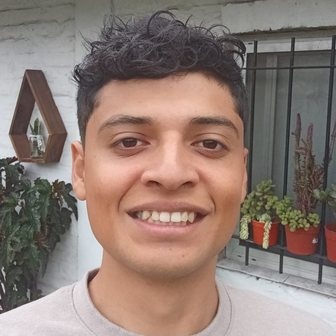
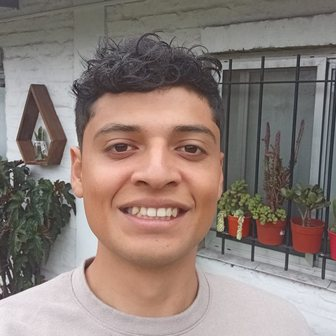
Add files via upload

diff --git a/index.html b/index.html
@@ -32,7 +32,7 @@
   "address": { "@type": "PostalAddress", "addressLocality": "General Pacheco, Tigre", "addressRegion": "Buenos Aires", "addressCountry": "AR" },
   "alumniOf": "UTN Facultad Regional General Pacheco",
   "email": "mailto:leonardotello13@gmail.com",
-  "sameAs": ["https://github.com/FaridTello", "https://www.linkedin.com/in/leonardo-farid-tello-moscoso"]
+  "sameAs": ["https://github.com/FaridTello", "https://www.linkedin.com/in/leonardo-farid-tello-moscoso", "https://www.hackerrank.com/profile/leonardotello13"]
 }
 </script>
 <script>
@@ -402,6 +402,8 @@
             <svg viewBox="0 0 24 24" fill="currentColor"><path d="M20.45 20.45h-3.56v-5.57c0-1.33-.03-3.04-1.85-3.04-1.86 0-2.14 1.45-2.14 2.94v5.67H9.34V9h3.42v1.56h.05c.48-.9 1.64-1.85 3.37-1.85 3.6 0 4.27 2.37 4.27 5.46v6.28ZM5.34 7.43a2.06 2.06 0 1 1 0-4.13 2.06 2.06 0 0 1 0 4.13ZM7.12 20.45H3.56V9h3.56v11.45ZM22.22 0H1.77C.79 0 0 .77 0 1.73v20.54C0 23.23.79 24 1.77 24h20.45c.98 0 1.78-.77 1.78-1.73V1.73C24 .77 23.2 0 22.22 0Z"/></svg></a>
           <a class="icon-link" href="https://leetcode.com/u/leonardotelloo/" target="_blank" rel="noopener" aria-label="LeetCode">
             <svg viewBox="0 0 24 24" fill="currentColor"><path d="M13.48 0a1.37 1.37 0 0 0-.96.44L7.12 6.21l-2.89 3.1a5.27 5.27 0 0 0-1.27 2.2 5.4 5.4 0 0 0-.12 2.56c.18.97.63 1.87 1.3 2.6l4.45 4.79a5.38 5.38 0 0 0 7.62.27l2.66-2.52a1.37 1.37 0 1 0-1.88-1.99l-2.66 2.52a2.64 2.64 0 0 1-3.73-.13l-4.45-4.79a2.7 2.7 0 0 1-.02-3.68l2.88-3.1 5.4-5.78A1.37 1.37 0 0 0 13.48 0Zm-2.87 12.07a1.37 1.37 0 1 0 0 2.74h9.32a1.37 1.37 0 1 0 0-2.74h-9.32Z"/></svg></a>
+          <a class="icon-link" href="https://www.hackerrank.com/profile/leonardotello13" target="_blank" rel="noopener" aria-label="HackerRank">
+            <svg viewBox="0 0 24 24" fill="currentColor"><path d="M12 0c1.285 0 9.75 4.886 10.392 6 .645 1.115.645 10.885 0 12S13.287 24 12 24s-9.75-4.885-10.395-6c-.641-1.115-.641-10.885 0-12C2.25 4.886 10.715 0 12 0zm2.295 6.799c-.141 0-.258.115-.258.258v3.875H9.963V6.908h.701a.257.257 0 0 0 .183-.439L9.27 4.892a.26.26 0 0 0-.183-.077.258.258 0 0 0-.182.077L7.329 6.47a.258.258 0 0 0 .182.439h.701v10.11c0 .141.115.257.258.257h1.236a.258.258 0 0 0 .258-.258v-4.152h4.074v4.083h-.701a.258.258 0 0 0-.183.44l1.577 1.576a.252.252 0 0 0 .363 0l1.578-1.576a.257.257 0 0 0-.183-.44h-.7V7.057a.258.258 0 0 0-.258-.258h-1.236z"/></svg></a>
           <a class="icon-link" href="mailto:leonardotello13@gmail.com" aria-label="Email">
             <svg viewBox="0 0 24 24" fill="none" stroke="currentColor" stroke-width="2" stroke-linecap="round" stroke-linejoin="round"><rect x="3" y="5" width="18" height="14" rx="2"/><path d="m3 7 9 6 9-6"/></svg></a>
         </div>
